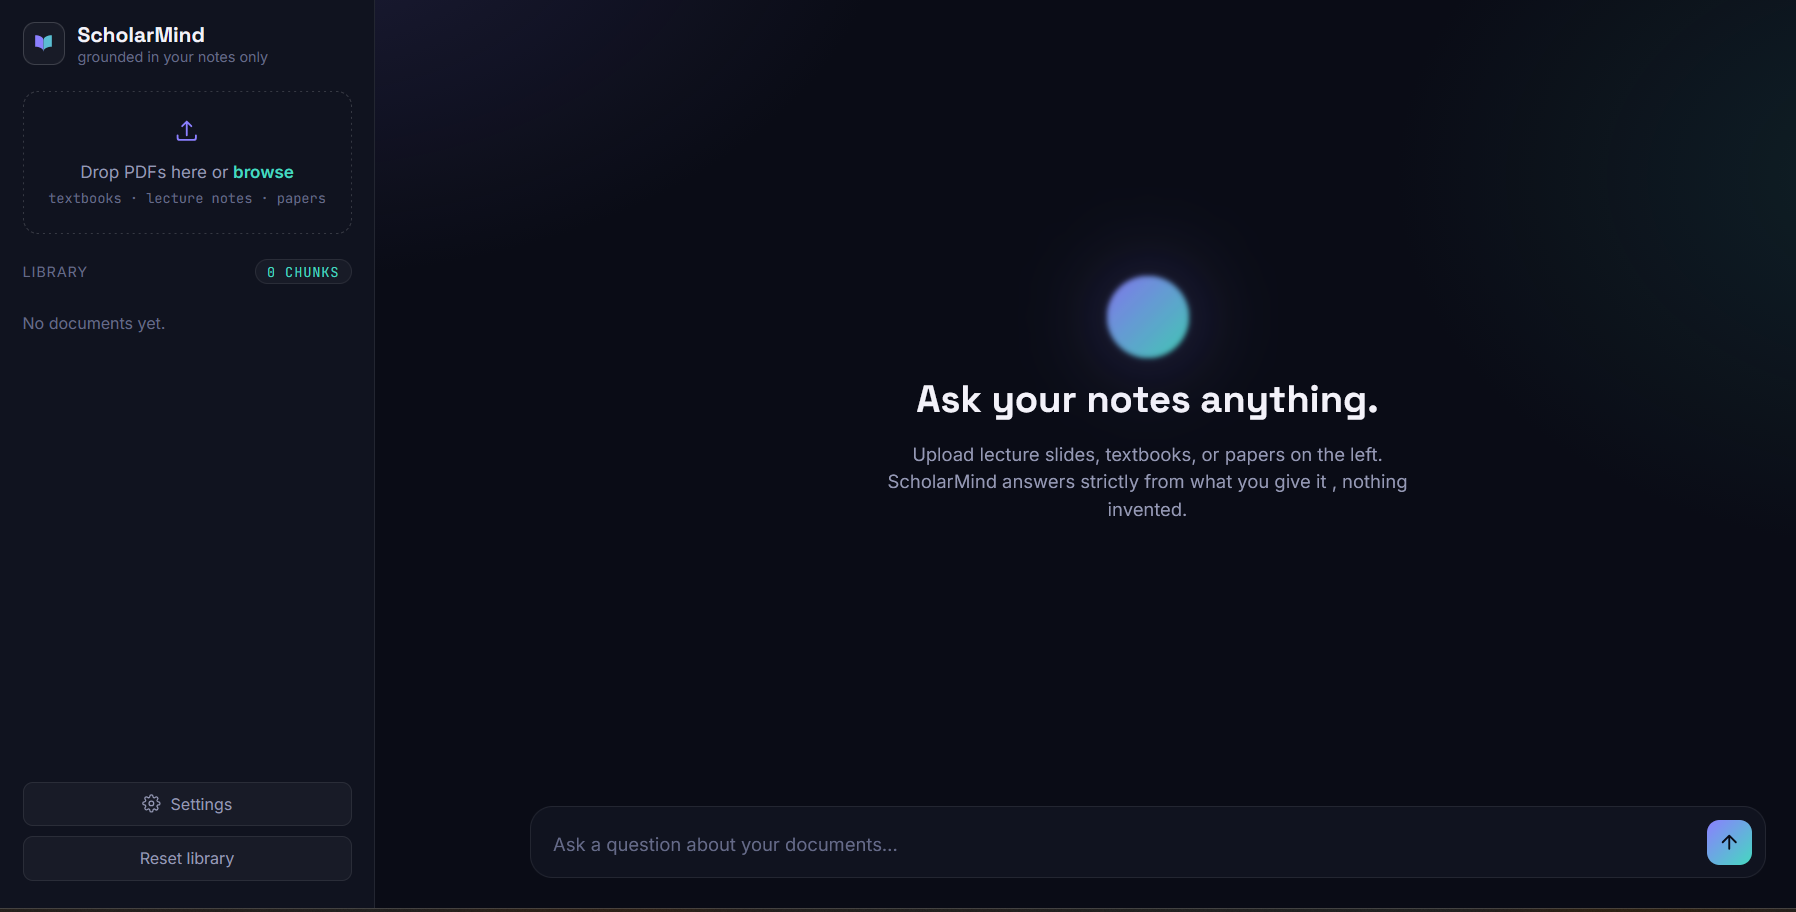
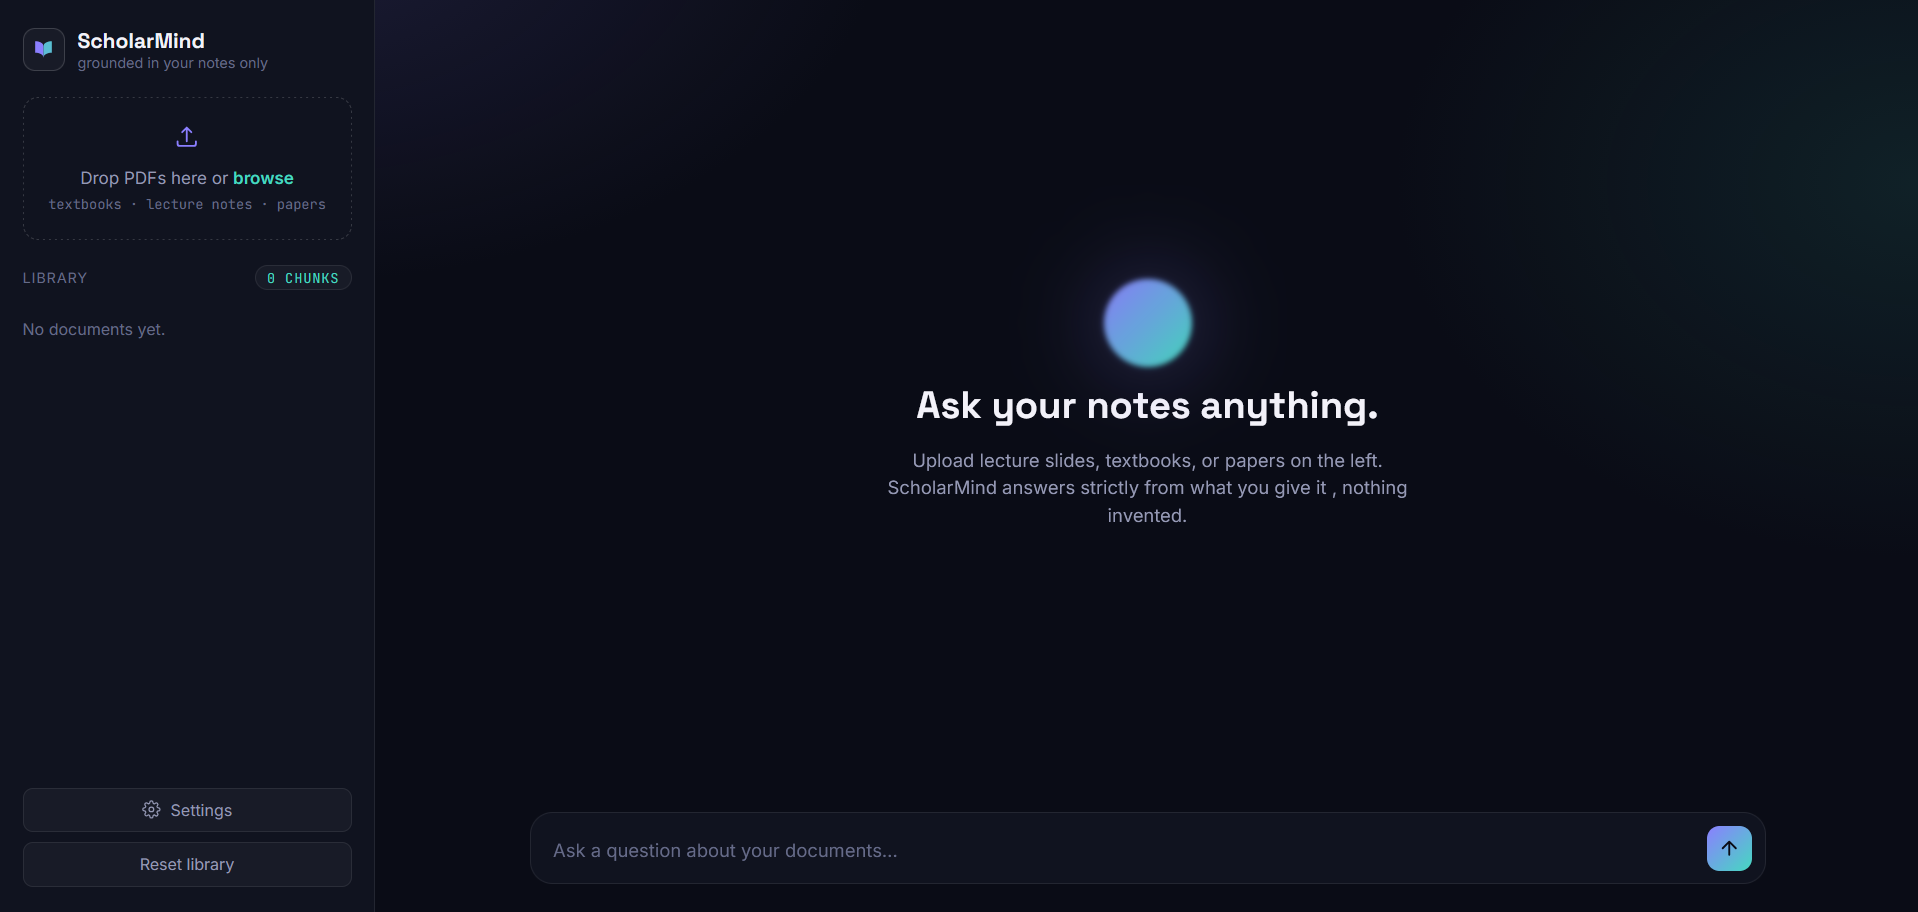
changes-4

diff --git a/public/fonts/clash-display/ClashDisplay_Complete/Fonts/WEB/css/clash-display.css b/public/fonts/clash-display/ClashDisplay_Complete/Fonts/WEB/css/clash-display.css
@@ -1,0 +1,90 @@
+/**
+* @license
+*
+* Font Family: Clash Display
+* Designed by: Indian Type Foundry
+* URL: https://www.fontshare.com/fonts/clash-display
+* © 2026 Indian Type Foundry
+*
+* Clash Display Extralight 
+* Clash Display Light 
+* Clash Display Regular 
+* Clash Display Medium 
+* Clash Display Semibold 
+* Clash Display Bold 
+* Clash Display Variable (Variable font)
+
+*
+*/
+@font-face {
+  font-family: 'ClashDisplay-Extralight';
+  src: url('../fonts/ClashDisplay-Extralight.woff2') format('woff2'),
+       url('../fonts/ClashDisplay-Extralight.woff') format('woff'),
+       url('../fonts/ClashDisplay-Extralight.ttf') format('truetype');
+  font-weight: 200;
+  font-display: swap;
+  font-style: normal;
+}
+@font-face {
+  font-family: 'ClashDisplay-Light';
+  src: url('../fonts/ClashDisplay-Light.woff2') format('woff2'),
+       url('../fonts/ClashDisplay-Light.woff') format('woff'),
+       url('../fonts/ClashDisplay-Light.ttf') format('truetype');
+  font-weight: 300;
+  font-display: swap;
+  font-style: normal;
+}
+@font-face {
+  font-family: 'ClashDisplay-Regular';
+  src: url('../fonts/ClashDisplay-Regular.woff2') format('woff2'),
+       url('../fonts/ClashDisplay-Regular.woff') format('woff'),
+       url('../fonts/ClashDisplay-Regular.ttf') format('truetype');
+  font-weight: 400;
+  font-display: swap;
+  font-style: normal;
+}
+@font-face {
+  font-family: 'ClashDisplay-Medium';
+  src: url('../fonts/ClashDisplay-Medium.woff2') format('woff2'),
+       url('../fonts/ClashDisplay-Medium.woff') format('woff'),
+       url('../fonts/ClashDisplay-Medium.ttf') format('truetype');
+  font-weight: 500;
+  font-display: swap;
+  font-style: normal;
+}
+@font-face {
+  font-family: 'ClashDisplay-Semibold';
+  src: url('../fonts/ClashDisplay-Semibold.woff2') format('woff2'),
+       url('../fonts/ClashDisplay-Semibold.woff') format('woff'),
+       url('../fonts/ClashDisplay-Semibold.ttf') format('truetype');
+  font-weight: 600;
+  font-display: swap;
+  font-style: normal;
+}
+@font-face {
+  font-family: 'ClashDisplay-Bold';
+  src: url('../fonts/ClashDisplay-Bold.woff2') format('woff2'),
+       url('../fonts/ClashDisplay-Bold.woff') format('woff'),
+       url('../fonts/ClashDisplay-Bold.ttf') format('truetype');
+  font-weight: 700;
+  font-display: swap;
+  font-style: normal;
+}
+/**
+* This is a variable font
+* You can control variable axes as shown below:
+* font-variation-settings: wght 700.0;
+*
+* available axes:
+'wght' (range from 200.0 to 700.0
+*/
+@font-face {
+  font-family: 'ClashDisplay-Variable';
+  src: url('../fonts/ClashDisplay-Variable.woff2') format('woff2'),
+       url('../fonts/ClashDisplay-Variable.woff') format('woff'),
+       url('../fonts/ClashDisplay-Variable.ttf') format('truetype');
+  font-weight: 200 700;
+  font-display: swap;
+  font-style: normal;
+}
+

diff --git a/app/layout.tsx b/app/layout.tsx
@@ -1,5 +1,6 @@
 import type { Metadata } from "next";
 import { Geist, IBM_Plex_Mono } from "next/font/google";
+import localFont from "next/font/local";
 import "./globals.css";
 
 const geist = Geist({
@@ -11,6 +12,17 @@ const plexMono = IBM_Plex_Mono({
   variable: "--font-plex-mono",
   weight: ["400", "500", "600"],
   subsets: ["latin"],
+});
+
+const clashDisplay = localFont({
+  src: [
+    {
+      path: "../public/fonts/ClashDisplay-Variable.woff2",
+      style: "normal",
+    },
+  ],
+  variable: "--font-clash-display",
+  display: "swap",
 });
 
 export const metadata: Metadata = {
@@ -26,14 +38,8 @@ export default function RootLayout({
   return (
     <html
       lang="en"
-      className={`${geist.variable} ${plexMono.variable} font-sans h-full antialiased dark`}
+      className={`${geist.variable} ${plexMono.variable} ${clashDisplay.variable} font-sans h-full antialiased dark`}
     >
-      <head>
-        <link
-          href="https://api.fontshare.com/v2/css?f[]=clash-display@400,500,600,700&display=swap"
-          rel="stylesheet"
-        />
-      </head>
       <body className="min-h-full flex flex-col bg-background text-foreground overflow-x-hidden selection:bg-white/10 selection:text-white">
         {children}
       </body>

diff --git a/app/globals.css b/app/globals.css
@@ -25,8 +25,9 @@
   .text-balance {
     text-wrap: balance;
   }
+  /* Clash Display — font-display utility */
   .font-display {
-    font-family: 'Clash Display', var(--font-sans);
+    font-family: var(--font-clash-display), ui-sans-serif, system-ui, sans-serif;
   }
 }
 

diff --git a/components/Socials.tsx b/components/Socials.tsx
@@ -1,7 +1,7 @@
 "use client";
 
 import { motion } from "framer-motion";
-import { Mail } from "lucide-react";
+import { Mail, FileText } from "lucide-react";
 import { GithubIcon, LinkedinIcon } from "./Icons";
 
 export default function Socials() {
@@ -9,6 +9,7 @@ export default function Socials() {
     { name: "GitHub", icon: GithubIcon, href: "https://github.com/vyom10445" },
     { name: "LinkedIn", icon: LinkedinIcon, href: "https://www.linkedin.com/in/vyomchaturvedi/" },
     { name: "Email", icon: Mail, href: "mailto:[email redacted]" },
+    { name: "Resume", icon: FileText, href: "https://drive.google.com/file/d/1YGUrTzKSjLzApUKnz8kI4CQOAoOTr058/view?usp=sharing" },
   ];
 
   return (

diff --git a/components/Contact.tsx b/components/Contact.tsx
@@ -51,7 +51,7 @@ export default function Contact() {
                 <LinkedinIcon className="w-5 h-5" />
               </a>
               <a 
-                href="#" 
+                href="https://drive.google.com/file/d/1YGUrTzKSjLzApUKnz8kI4CQOAoOTr058/view?usp=sharing" 
                 target="_blank" 
                 rel="noopener noreferrer"
                 className="p-4 rounded-full bg-surface border border-border text-white/70 hover:text-white hover:border-white/20 hover:bg-surface/80 transition-all hover:-translate-y-1"

diff --git a/public/fonts/clash-display/ClashDisplay_Complete/Fonts/WEB/README.md b/public/fonts/clash-display/ClashDisplay_Complete/Fonts/WEB/README.md
@@ -1,0 +1,38 @@
+# Installing Webfonts
+Follow these simple Steps.
+
+## 1.
+Put `clash-display/` Folder into a Folder called `fonts/`.
+
+## 2.
+Put `clash-display.css` into your `css/` Folder.
+
+## 3. (Optional)
+You may adapt the `url('path')` in `clash-display.css` depends on your Website Filesystem.
+
+## 4.
+Import `clash-display.css` at the top of you main Stylesheet.
+
+```
+@import url('clash-display.css');
+```
+
+## 5.
+You are now ready to use the following Rules in your CSS to specify each Font Style:
+```
+font-family: ClashDisplay-Extralight;
+font-family: ClashDisplay-Light;
+font-family: ClashDisplay-Regular;
+font-family: ClashDisplay-Medium;
+font-family: ClashDisplay-Semibold;
+font-family: ClashDisplay-Bold;
+font-family: ClashDisplay-Variable;
+
+```
+## 6. (Optional)
+Use `font-variation-settings` rule to controll axes of variable fonts:
+wght 700.0
+
+Available axes:
+'wght' (range from 200.0 to 700.0
+